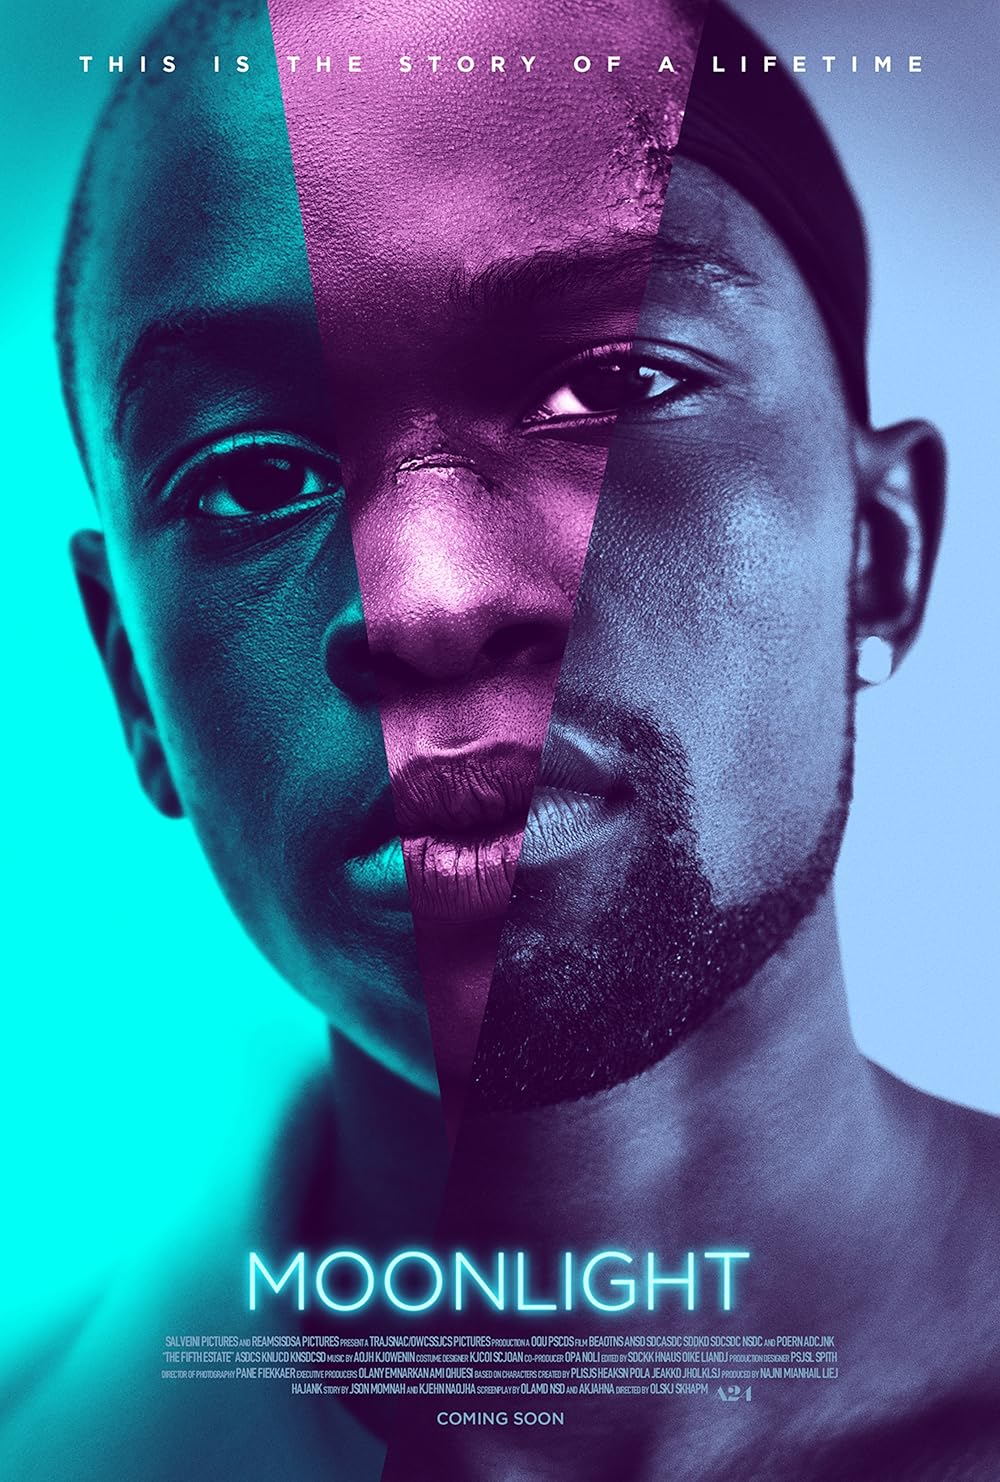
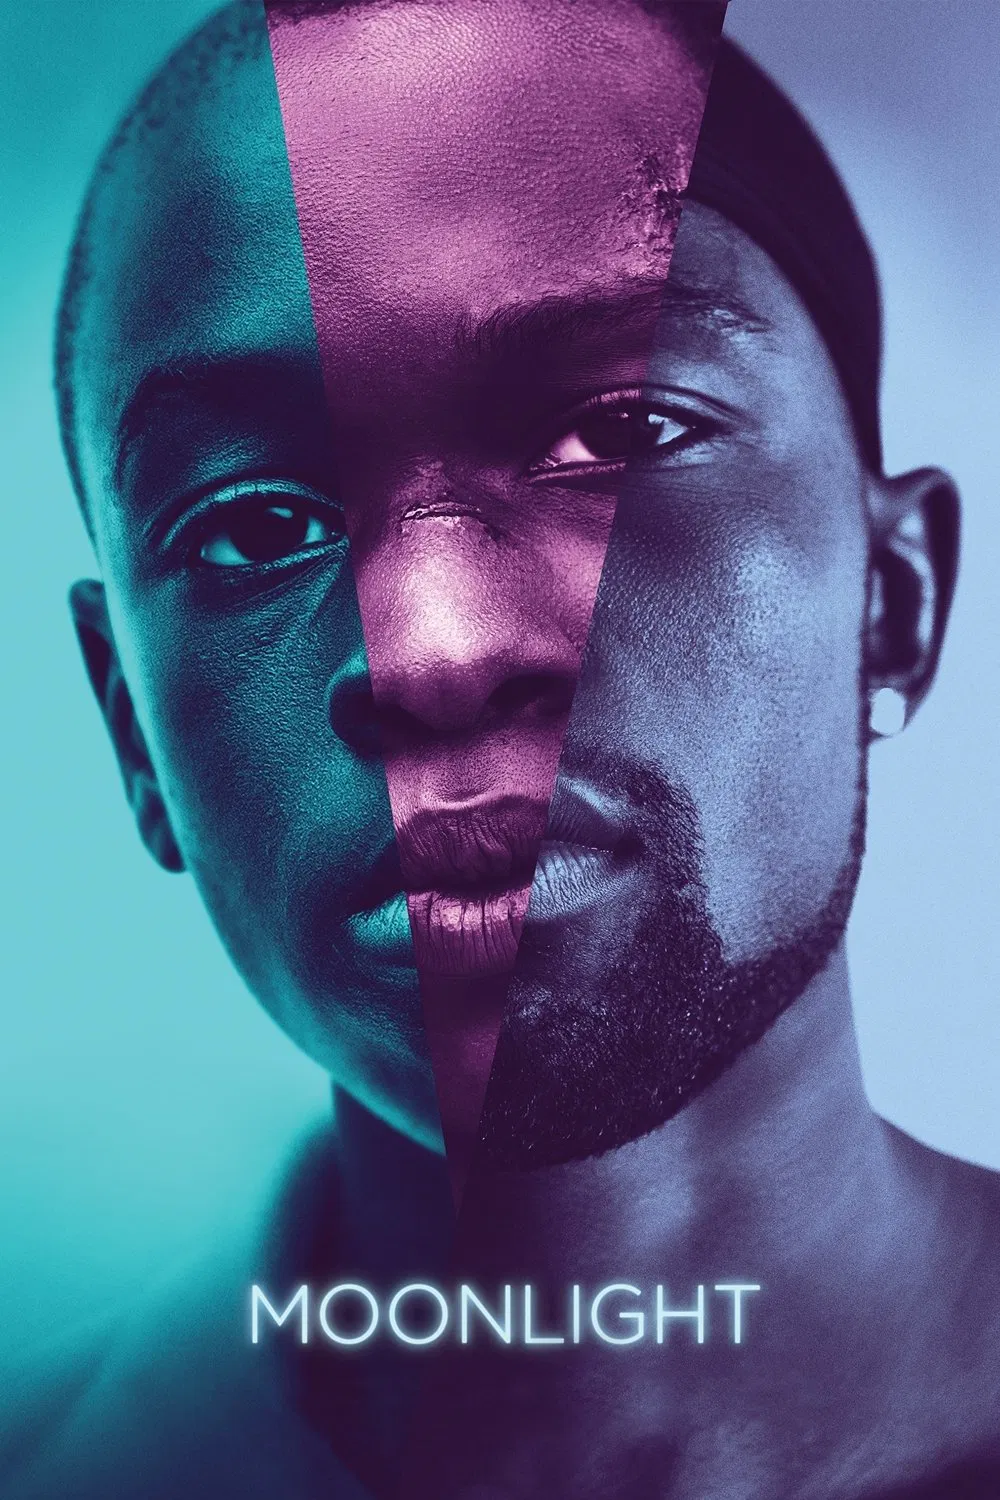
added gallery

diff --git a/movies.html b/movies.html
@@ -33,8 +33,14 @@
     </header>
 <main>
     <p class="a24Description"> A24 Movies Reviewed</p> <br>
-
-
+    <div class="gallery">
+        <img src="./images/theironclawposter.jpg" alt="The Iron Claw" class="poster">
+        <img src="./images/mid90sposter.jpg" alt="Mid90s" class="poster">
+        <img src="./images/Midsommarposter.jpg" alt="Midsommar" class="poster">
+        <img src="./images/moonlightposter.jpg" alt="Moonlight" class="poster">
+        <img src="./images/sorrybabyposter.jpg" alt="Sorry Baby" class="poster">
+        <img src="./images/uncutgemsposter.jpg" alt="Uncut Gems" class="poster"
+    </div>
 </main>
     <footer>
         2025 All Rights Reserved

diff --git a/style.css b/style.css
@@ -10,6 +10,14 @@ body {
   grid-template-rows: auto 1fr auto;
 }
 
+.gallery {
+  display: flex;
+  flex-wrap: wrap;
+  justify-content: center;
+  gap: 1rem;
+  text-align: center;
+}
+
 p {
   color: aqua;
   font-family: cursive;
@@ -28,10 +36,15 @@ p {
     border-radius: .5rem;
 }
 
-.btn btn-outline-info{
-  display: flex;
-  align-items: center;
+.poster {
+  margin: 1rem;
+  border: 1px solid white;
+  width: 30%;
+  max-width: 300px;
+  height: auto;
+  transition: transform 0.2s;
 }
+
 
 form {
   justify-content: center;
